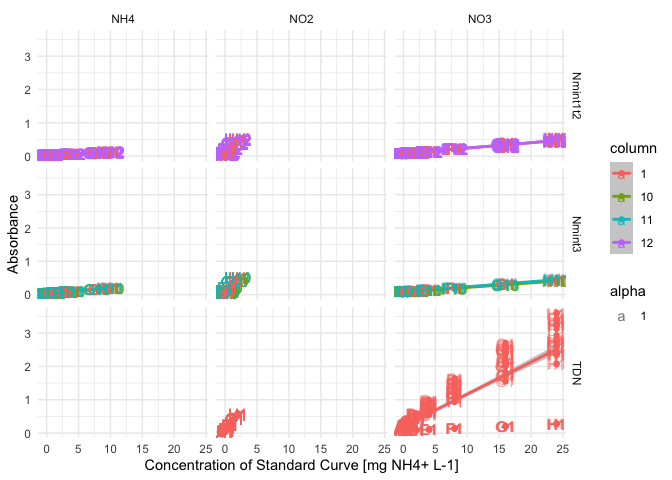
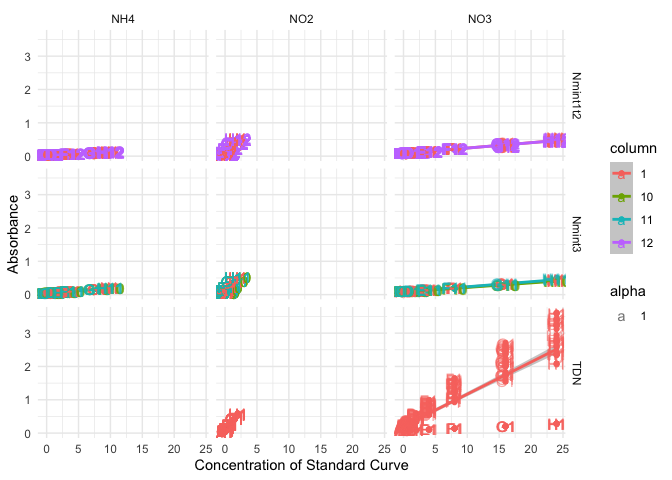
Implement QC of extractant data from plate2N + outlier removal

diff --git a/2.1.1_abs_data_QC.md b/2.1.1_abs_data_QC.md
@@ -9,6 +9,8 @@ Morgane de Toeuf
     (automated)](#12---suspicious-absorbance-values-automated)
 - [2 - Correction for blank](#2---correction-for-blank)
   - [2.1 - Standard curve](#21---standard-curve)
+  - [2.2 - Sample wells](#22---sample-wells)
+- [TO DO](#to-do-1)
 
 # TO DO
 
@@ -37,7 +39,19 @@ library(tidyverse)
 
 ``` r
 library(plate2N)
+library(roperators)
 ```
+
+
+    Attaching package: 'roperators'
+
+    The following object is masked from 'package:tibble':
+
+        num
+
+    The following object is masked from 'package:ggplot2':
+
+        %+%
 
 Loading data
 
@@ -175,6 +189,9 @@ raw_abs_ok |>
 
 ``` r
   #select(well_id, map) |> unique()
+
+# Once validated, store last version in a "validated" data
+raw_abs_clean <- raw_abs_ok
 ```
 
 It appears that only the most concentrated wells in the standard curve
@@ -195,7 +212,7 @@ curve_concentration <- extract_curve(all_plate_metadata)
 Extract Std wells, add unique curve ID, then add curve_concentration
 
 ``` r
-std_data <- raw_abs_ok |> 
+std_data <- raw_abs_clean |> 
   extract_std_data() |> 
   select(!std_conc) |> 
   left_join(curve_concentration, by = join_by(row, plate_id))
@@ -205,18 +222,18 @@ Check unstrusted blanks (where the smallest value for a given curve is
 not in row A (top_down pipetting) or in row H (bottom_up pipetting)
 
 ``` r
-blank <- raw_abs_ok |> plate2N::extract_std_blanc()
+blank <- raw_abs_clean |> plate2N::extract_std_blanc()
 blank$untrusted
 ```
 
-    # A tibble: 4 × 6
+    # A tibble: 4 × 8
     # Groups:   dataset, plate_id, column [4]
-      well_id dataset  plate_id   column unique_curve_id   abs
-      <chr>   <chr>    <chr>      <chr>  <chr>           <dbl>
-    1 A1      Nmint1t2 NH4_2F5_1  1      NH4_2F5_1_col1  0.044
-    2 A1      Nmint1t2 NH4_2F5_2  1      NH4_2F5_2_col1  0.044
-    3 A1      Nmint3   NO3_R2R3_1 1      NO3_R2R3_1_col1 0.134
-    4 A1      Nmint3   NO3_R2R3_2 1      NO3_R2R3_2_col1 0.134
+      well_id dataset  plate_id   column unique_curve_id row   unique_well_id   abs
+      <chr>   <chr>    <chr>      <chr>  <chr>           <chr> <chr>          <dbl>
+    1 A1      Nmint1t2 NH4_2F5_1  1      NH4_2F5_1_col1  A     A1_NH4_2F5_1   0.044
+    2 A1      Nmint1t2 NH4_2F5_2  1      NH4_2F5_2_col1  A     A1_NH4_2F5_2   0.044
+    3 A1      Nmint3   NO3_R2R3_1 1      NO3_R2R3_1_col1 A     A1_NO3_R2R3_1  0.134
+    4 A1      Nmint3   NO3_R2R3_2 1      NO3_R2R3_2_col1 A     A1_NO3_R2R3_2  0.134
 
 ``` r
 #blank$all |> filter(plate_id == "NO3_R2R3_1")
@@ -313,12 +330,179 @@ nrow(blank$all) ; nrow(blank$untrusted) ; nrow(blank$trusted)
 > - To be tested and implemented in coding.
 
 Now that we have all the trusted wells with blank values, we can finally
-correct absorbance values for the curves
+correct absorbance values for the standard curves
 
 ``` r
-?correct_std_blank
-# std_data <- raw_abs_ok |> 
-#   extract_std_data() |> 
-#   select(!std_conc) |> 
-#   left_join(curve_concentration, by = join_by(row, plate_id))
+std_corrected <- raw_abs_clean |> 
+  correct_std_blank(std_blank_average = blank$average)
 ```
+
+Because the logic is similar, we will first go into blank-correction of
+sample data before finalizing work on the standard curves (applying
+linear regression model)
+
+## 2.2 - Sample wells
+
+First, extract data for wells containing extractant and have a look at
+its variation
+
+``` r
+extr_data <- extract_extractant(raw_abs_clean)
+(extr_avg <- extractant_average(raw_abs_clean) |> 
+  arrange(desc(extr_coeff_var_percent)))
+```
+
+    # A tibble: 158 × 5
+       plate_id   map   extr_avg extr_sdev extr_coeff_var_percent
+       <chr>      <chr>    <dbl>     <dbl>                  <dbl>
+     1 NO3_2P6_2  extr    0.0941   0.0331                   35.1 
+     2 NH4_2F2_2  extr    0.0405   0.00748                  18.5 
+     3 NO3_TDN_38 extr    0.0714   0.00472                   6.61
+     4 NH4_2P2    extr    0.0401   0.00242                   6.02
+     5 NO3_2F1_1  extr    0.0718   0.00377                   5.25
+     6 NO2_2P6_1  extr    0.0372   0.00158                   4.24
+     7 NO2_2F1_1  extr    0.0376   0.00151                   4.00
+     8 NO2_TDN_03 extr    0.0365   0.00141                   3.87
+     9 NO2_2F6_1  extr    0.0368   0.00139                   3.78
+    10 NO3_TDN_07 extr    0.0921   0.00314                   3.40
+    # ℹ 148 more rows
+
+``` r
+plot_blank_var_distrib(extr_avg)
+```
+
+![](2.1.1_abs_data_QC_files/figure-commonmark/unnamed-chunk-17-1.png)
+
+We see that a few plates have a very high coefficient of variation, we
+will have to look at them individually. Let’s set the threshold for the
+coefficient of variation at 5% (default)
+
+``` r
+threshold <- 5
+
+suspicious_plates <- raw_abs_clean |> 
+  qc_raw_extr(suppress_warning = TRUE, max_coeff = threshold)
+
+suspicious_extr <- suspicious_extr(
+  raw_abs_clean, suspicious_plate_id = suspicious_plates, max_coeff = threshold)
+
+# check it out
+suspicious_extr
+```
+
+    # A tibble: 40 × 12
+    # Groups:   plate_id, map [5]
+       row   column well_id unique_well_id dataset  plate_id  map     abs std_sp
+       <chr> <chr>  <chr>   <chr>          <chr>    <chr>     <chr> <dbl> <chr> 
+     1 A     8      A8      A8_NH4_2F2_2   Nmint1t2 NH4_2F2_2 extr  0.038 NH4   
+     2 B     8      B8      B8_NH4_2F2_2   Nmint1t2 NH4_2F2_2 extr  0.037 NH4   
+     3 C     8      C8      C8_NH4_2F2_2   Nmint1t2 NH4_2F2_2 extr  0.038 NH4   
+     4 D     8      D8      D8_NH4_2F2_2   Nmint1t2 NH4_2F2_2 extr  0.038 NH4   
+     5 E     8      E8      E8_NH4_2F2_2   Nmint1t2 NH4_2F2_2 extr  0.038 NH4   
+     6 F     8      F8      F8_NH4_2F2_2   Nmint1t2 NH4_2F2_2 extr  0.038 NH4   
+     7 G     8      G8      G8_NH4_2F2_2   Nmint1t2 NH4_2F2_2 extr  0.038 NH4   
+     8 H     8      H8      H8_NH4_2F2_2   Nmint1t2 NH4_2F2_2 extr  0.059 NH4   
+     9 A     8      A8      A8_NH4_2P2     Nmint1t2 NH4_2P2   extr  0.039 NH4   
+    10 B     8      B8      B8_NH4_2P2     Nmint1t2 NH4_2P2   extr  0.039 NH4   
+    # ℹ 30 more rows
+    # ℹ 3 more variables: std_conc <chr>, std_unit <chr>, sample_dilution <chr>
+
+``` r
+# plot outliers
+suspicious_extr |> boxplot_outlier_extr(max_coeff = threshold)
+```
+
+![](2.1.1_abs_data_QC_files/figure-commonmark/unnamed-chunk-18-1.png)
+
+We have 5 plates that each have one or more obvious outlier well. We
+will need to remove them manually.
+
+First, we create a small tibble that will serve to construct the tibble
+of wells to remove
+
+``` r
+plate_ids <- suspicious_extr |> 
+  ungroup() |> 
+  select(dataset, plate_id) |> unique() 
+plate_ids <- plate_ids |> # save numbers for plate order in the plot
+  mutate(plate_order = seq(1, nrow(plate_ids)))
+```
+
+Then, we create a vector with wells to remove (going through boxplots
+from top to bottom).
+
+> [!TIP]
+>
+> ### Manually remove outliers
+>
+> > [!TIP]
+> >
+> > In the following chunk, you need to manually decide which wells to
+> > remove, based on the boxplots produced above.
+> >
+> > - <u>**Make sure to deal appropriately with plates that require 2
+> >   outliers to be removed**</u> (see example below)
+
+``` r
+#** !!! MANUAL INPUT !!! *
+
+# Which plate needs 2 outliers removed?
+plate_with_2_outliers <- 4
+
+# Which wells are outliers? 
+well_ids <- c("H8", "C8", "B5", "C8", "D8", "E8")
+```
+
+Then we finish constructing the tibble of wells to be removed
+
+``` r
+#nb_plates <- plate_ids |> nrow()
+
+to_remove <- plate_ids |> 
+  bind_rows(plate_ids |> filter(plate_order == plate_with_2_outliers)) |> 
+  arrange(plate_order) |> 
+  mutate(well_id = well_ids) |> 
+  select(!plate_order)
+```
+
+And we remove it from extractant data
+
+``` r
+extr_data_clean <- extr_data |> 
+  remove_wells(to_remove) 
+
+extr_avg_clean <- extractant_average(extractant_data = extr_data_clean) 
+```
+
+Check that biggest coeff_var indeed below threshold
+
+``` r
+extr_avg_clean |> arrange(desc(extr_coeff_var_percent)) |> head()
+```
+
+    # A tibble: 6 × 5
+      plate_id   map   extr_avg extr_sdev extr_coeff_var_percent
+      <chr>      <chr>    <dbl>     <dbl>                  <dbl>
+    1 NO3_2P6_2  extr    0.0763   0.00339                   4.44
+    2 NO2_2P6_1  extr    0.0372   0.00158                   4.24
+    3 NO2_2F1_1  extr    0.0376   0.00151                   4.00
+    4 NO2_TDN_03 extr    0.0365   0.00141                   3.87
+    5 NO2_2F6_1  extr    0.0368   0.00139                   3.78
+    6 NO3_TDN_07 extr    0.0921   0.00314                   3.40
+
+Now that we are confident in the per-plate average value of raw
+absorbance of extractant wells, we can finally blank-correct all sample
+data
+
+# TO DO
+
+- Blank-correct sample absorbance
+
+- Linear model for standard curves (and further QC)
+
+- Apply linear model on sample data to get raw concentration data
+
+- Bullet-point fill the vignette (basically copy-paste of this script)
+
+- Start new script for data transformation (or not if too late in the
+  week)